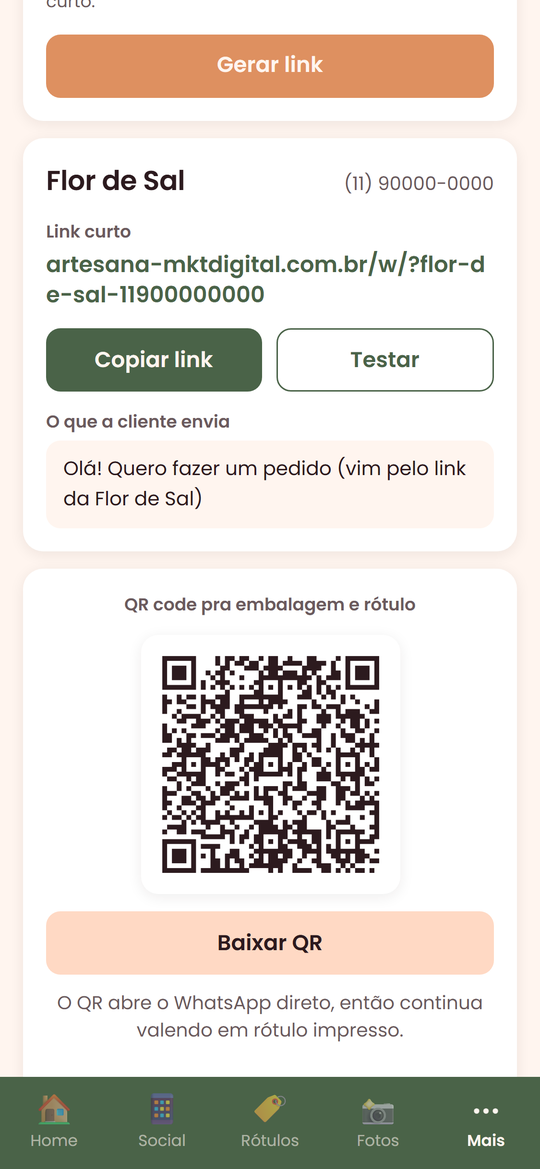
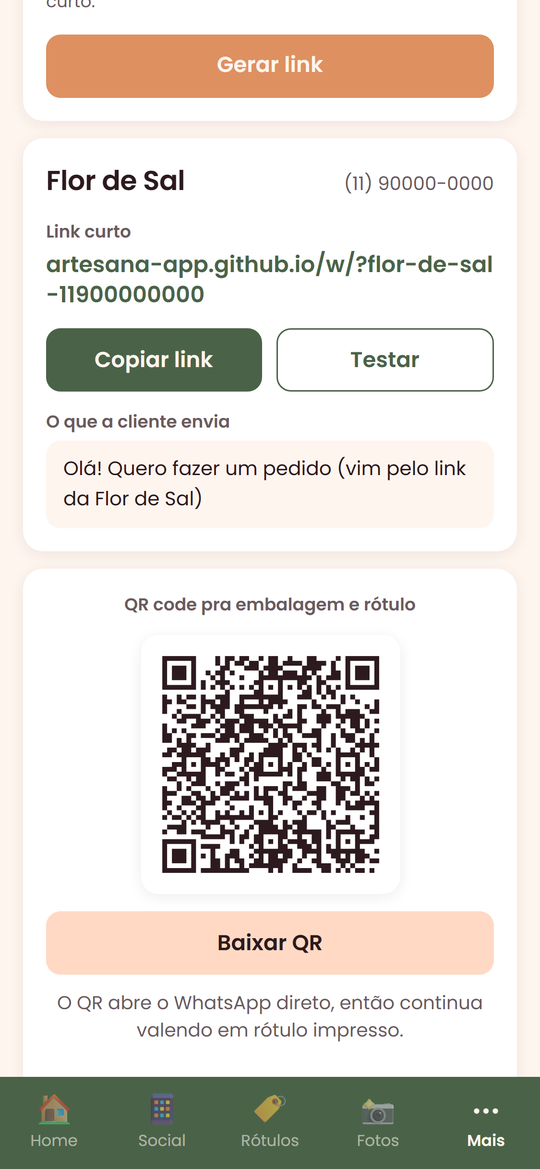
fix(marketing): link curto da peça usa o endereço que funciona; domínio documentado como redirecionamento

Changed region(s): [[0.0889, 0.2156, 0.9185, 0.2772]]

diff --git a/scripts/gen-site-shots.py b/scripts/gen-site-shots.py
@@ -90,7 +90,7 @@ def main() -> None:
         page.wait_for_timeout(600)
         page.evaluate("""() => {
           const sec = document.querySelector('section[data-route=whatsapp]');
-          sec.querySelector('.wa-link').textContent = 'artesana-mktdigital.com.br/w/?flor-de-sal-11900000000';
+          sec.querySelector('.wa-link').textContent = 'artesana-app.github.io/w/?flor-de-sal-11900000000';
           window.scrollTo(0, sec.querySelector('.wa-id').getBoundingClientRect().top + scrollY - 96);
         }""")
         page.wait_for_timeout(300)

diff --git a/docs/dominio.md b/docs/dominio.md
@@ -5,8 +5,17 @@
 Registrado no Registro.br em 29/09/2026, em nome de Bibiana Kohls Silveira, válido até 29/09/2027.
 Usa o DNS do próprio Registro.br (`a.auto.dns.br` e `b.auto.dns.br`).
 
-Situação em 29/09/2026: o domínio existe, mas ainda não tem nenhum registro de DNS. Enquanto isso o site segue em
-https://artesana-app.github.io/.
+Situação em 29/09/2026: **funcionando por redirecionamento.** Quem acessa `artesana-mktdigital.com.br` ou
+`www.artesana-mktdigital.com.br` é levado para https://artesana-app.github.io/, onde o site está hospedado.
+
+O que o redirecionamento do Registro.br faz e não faz, conferido em teste:
+
+- responde em `http`. Em `https://` o domínio não abre, então divulgue sem nada na frente;
+- leva sempre para a página inicial. O resto do endereço é descartado, por isso os links curtos de WhatsApp
+  usam `artesana-app.github.io/w/...` e não o domínio;
+- depois do redirecionamento, a barra do navegador mostra `artesana-app.github.io`.
+
+Para o site abrir no próprio domínio, com `https` e sem mostrar o endereço do GitHub, vale o caminho completo abaixo.
 
 ## O registro está pago. O que falta é só configuração
 

diff --git a/README.md b/README.md
@@ -5,7 +5,7 @@ O app da empreendedora que faz, vende e fotografa. Artesanato, saboaria e beleza
 - **Site:** https://artesana-app.github.io/
 - **App (PWA):** https://artesana-app.github.io/app/
 
-Domínio oficial: `artesana-mktdigital.com.br`. Passa a valer quando o DNS for criado, veja `docs/dominio.md`.
+Domínio: `artesana-mktdigital.com.br` redireciona para o site. Detalhes e limites em `docs/dominio.md`.
 
 Endereço anterior, que continua no ar e recebe as mesmas atualizações: https://bebezinbtc-droid.github.io/artesana/
 
